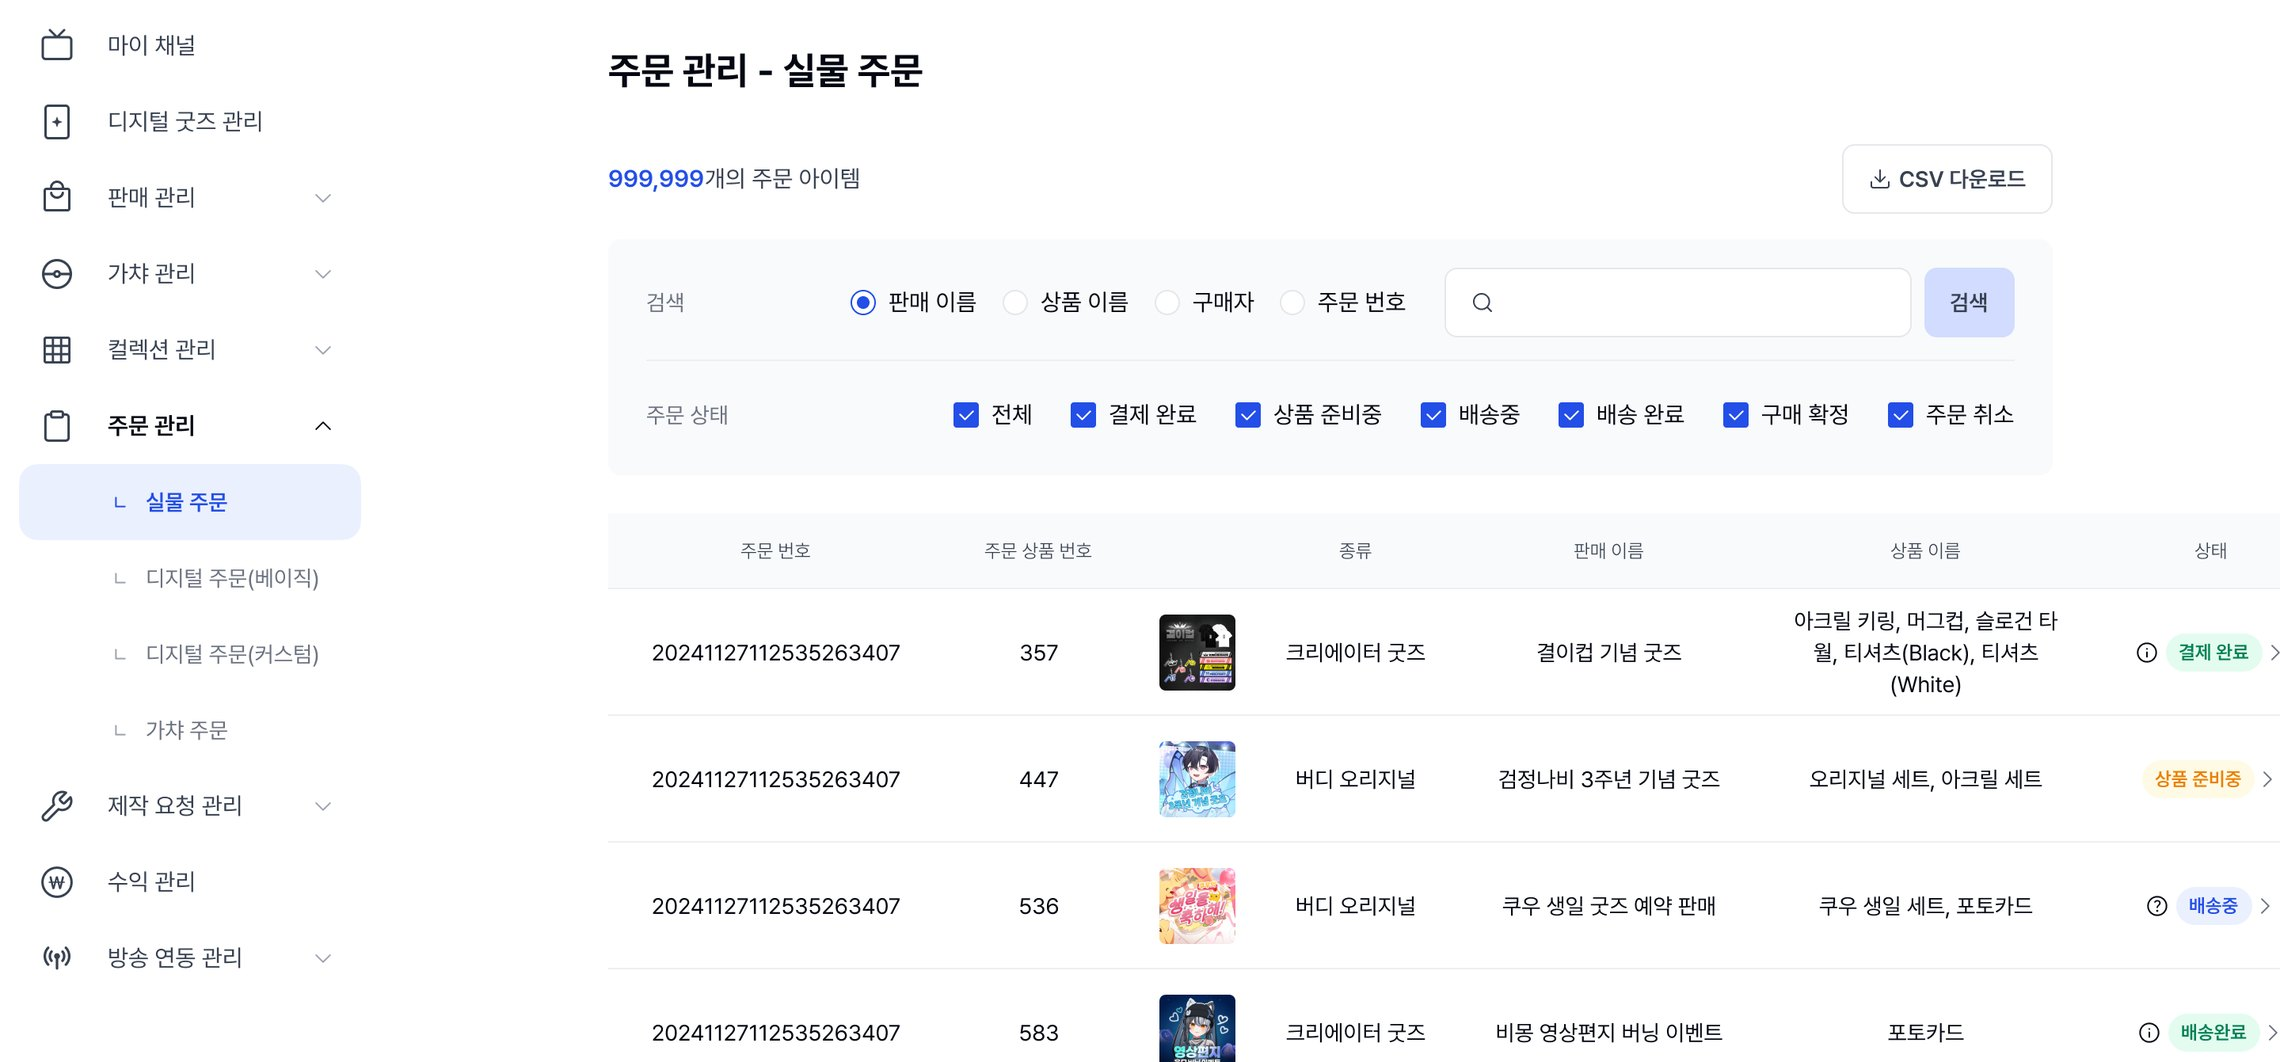
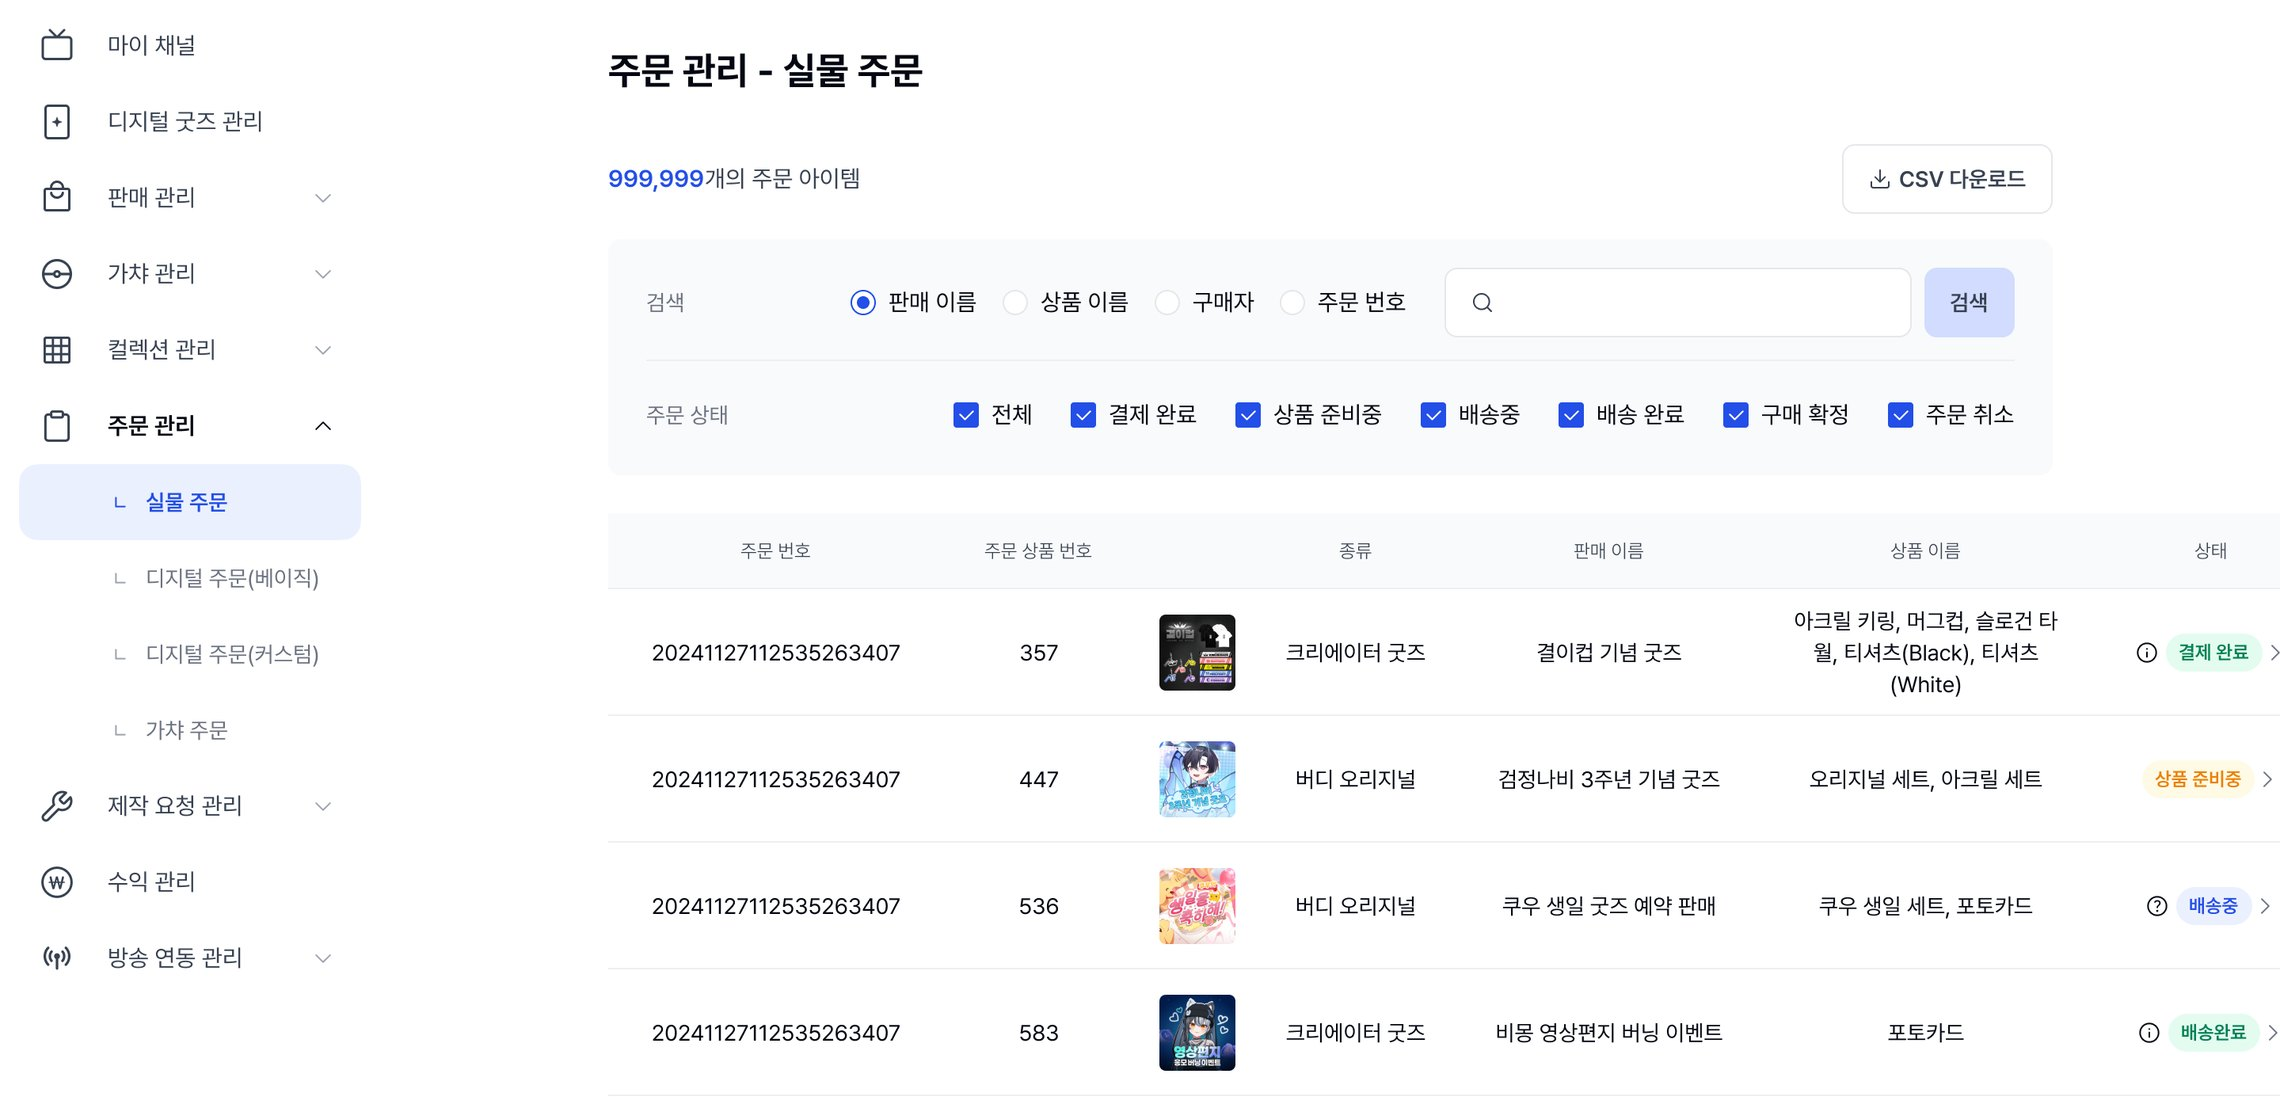
스튜디오 덱: 실제 화면 박스를 좌측 칼럼 바닥에 맞추고 크롭 축소
.mock 박스가 531px 이라 바닥이 978 에서 끝나는데 좌측 칼럼은 1001(cs-10 은
1004)까지 내려와 있었다. 23~26px 어긋나 눈에 걸린다.

박스를 좌측 바닥에 맞춰 늘리고(554 · 554 · 557), 넓어진 비율(2.147 →
2.058 / 2.047)로 원본을 다시 잘랐다. 같은 폭에서 세로를 더 쓰게 되어
화면이 29~58px 더 보인다. cs-08 은 주문 행이 셋에서 넷으로 늘어 같은
주문번호가 반복되는 것이 더 분명해졌다.

원본을 박스 비율에 정확히 맞춰 잘랐으므로 object-fit 이 잘라내는 양은
0% 다. 남은 잘림은 세로로 긴 화면을 가로로 긴 박스에 넣는 데서 오는
것이고, 폭은 캡처의 검은 여백 전까지(1439 / 2879)가 한계다.

검증: 세 장 모두 좌측 칼럼 바닥과 mock 바닥이 같은 값. 넘침 0건,
404·에러 0건.

diff --git a/works/studio-embed.html b/works/studio-embed.html
@@ -465,7 +465,7 @@ border-radius:3px;padding:7px 15px;font-size:14px;color:var(--g1);font-weight:60
   <div style="font-size:16px;font-weight:500;line-height:1.55;color:rgba(255,255,255,.7)">판매 상태는 기간과 재고가, 노출 여부는 크리에이터가 정합니다.</div>
 </div></div>
 
- <div class="mock" style="position:absolute;left:680px;top:447px;width:1140px;height:531px;border:1px solid var(--line);border-radius:4px;overflow:hidden;background:#F7F8FA">
+ <div class="mock" style="position:absolute;left:680px;top:447px;width:1140px;height:554px;border:1px solid var(--line);border-radius:4px;overflow:hidden;background:#F7F8FA">
   <img src="../images/studio/sale-state.jpg" alt="버디 스튜디오 판매 관리 · 실물 판매 목록 화면" style="display:block;width:100%;height:100%;object-fit:cover;object-position:top left">
  </div>
 
@@ -493,7 +493,7 @@ border-radius:3px;padding:7px 15px;font-size:14px;color:var(--g1);font-weight:60
   <div style="display:flex;flex-wrap:wrap;gap:6px;margin-top:14px"><span class="cp s">상태 필터 중복</span><span class="cp s">CSV 다운로드</span><span class="cp s">구매자 메모</span><span class="cp s">상태 변경</span></div>
 </div></div>
 
- <div class="mock" style="position:absolute;left:680px;top:447px;width:1140px;height:531px;border:1px solid var(--line);border-radius:4px;overflow:hidden;background:#F7F8FA">
+ <div class="mock" style="position:absolute;left:680px;top:447px;width:1140px;height:554px;border:1px solid var(--line);border-radius:4px;overflow:hidden;background:#F7F8FA">
   <img src="../images/studio/order-rows.jpg" alt="버디 스튜디오 주문 관리 · 실물 주문 목록 화면" style="display:block;width:100%;height:100%;object-fit:cover;object-position:top left">
  </div>
 
@@ -612,7 +612,7 @@ border-radius:3px;padding:7px 15px;font-size:14px;color:var(--g1);font-weight:60
    </div>
  </div></div>
 
- <div class="mock" style="position:absolute;left:680px;top:447px;width:1140px;height:531px;border:1px solid var(--line);border-radius:4px;overflow:hidden;background:#F7F8FA">
+ <div class="mock" style="position:absolute;left:680px;top:447px;width:1140px;height:557px;border:1px solid var(--line);border-radius:4px;overflow:hidden;background:#F7F8FA">
   <img src="../images/studio/production.jpg" alt="버디 스튜디오 제작 요청 관리 · 베이직/퍼스널 화면" style="display:block;width:100%;height:100%;object-fit:cover;object-position:top left">
  </div>
 
